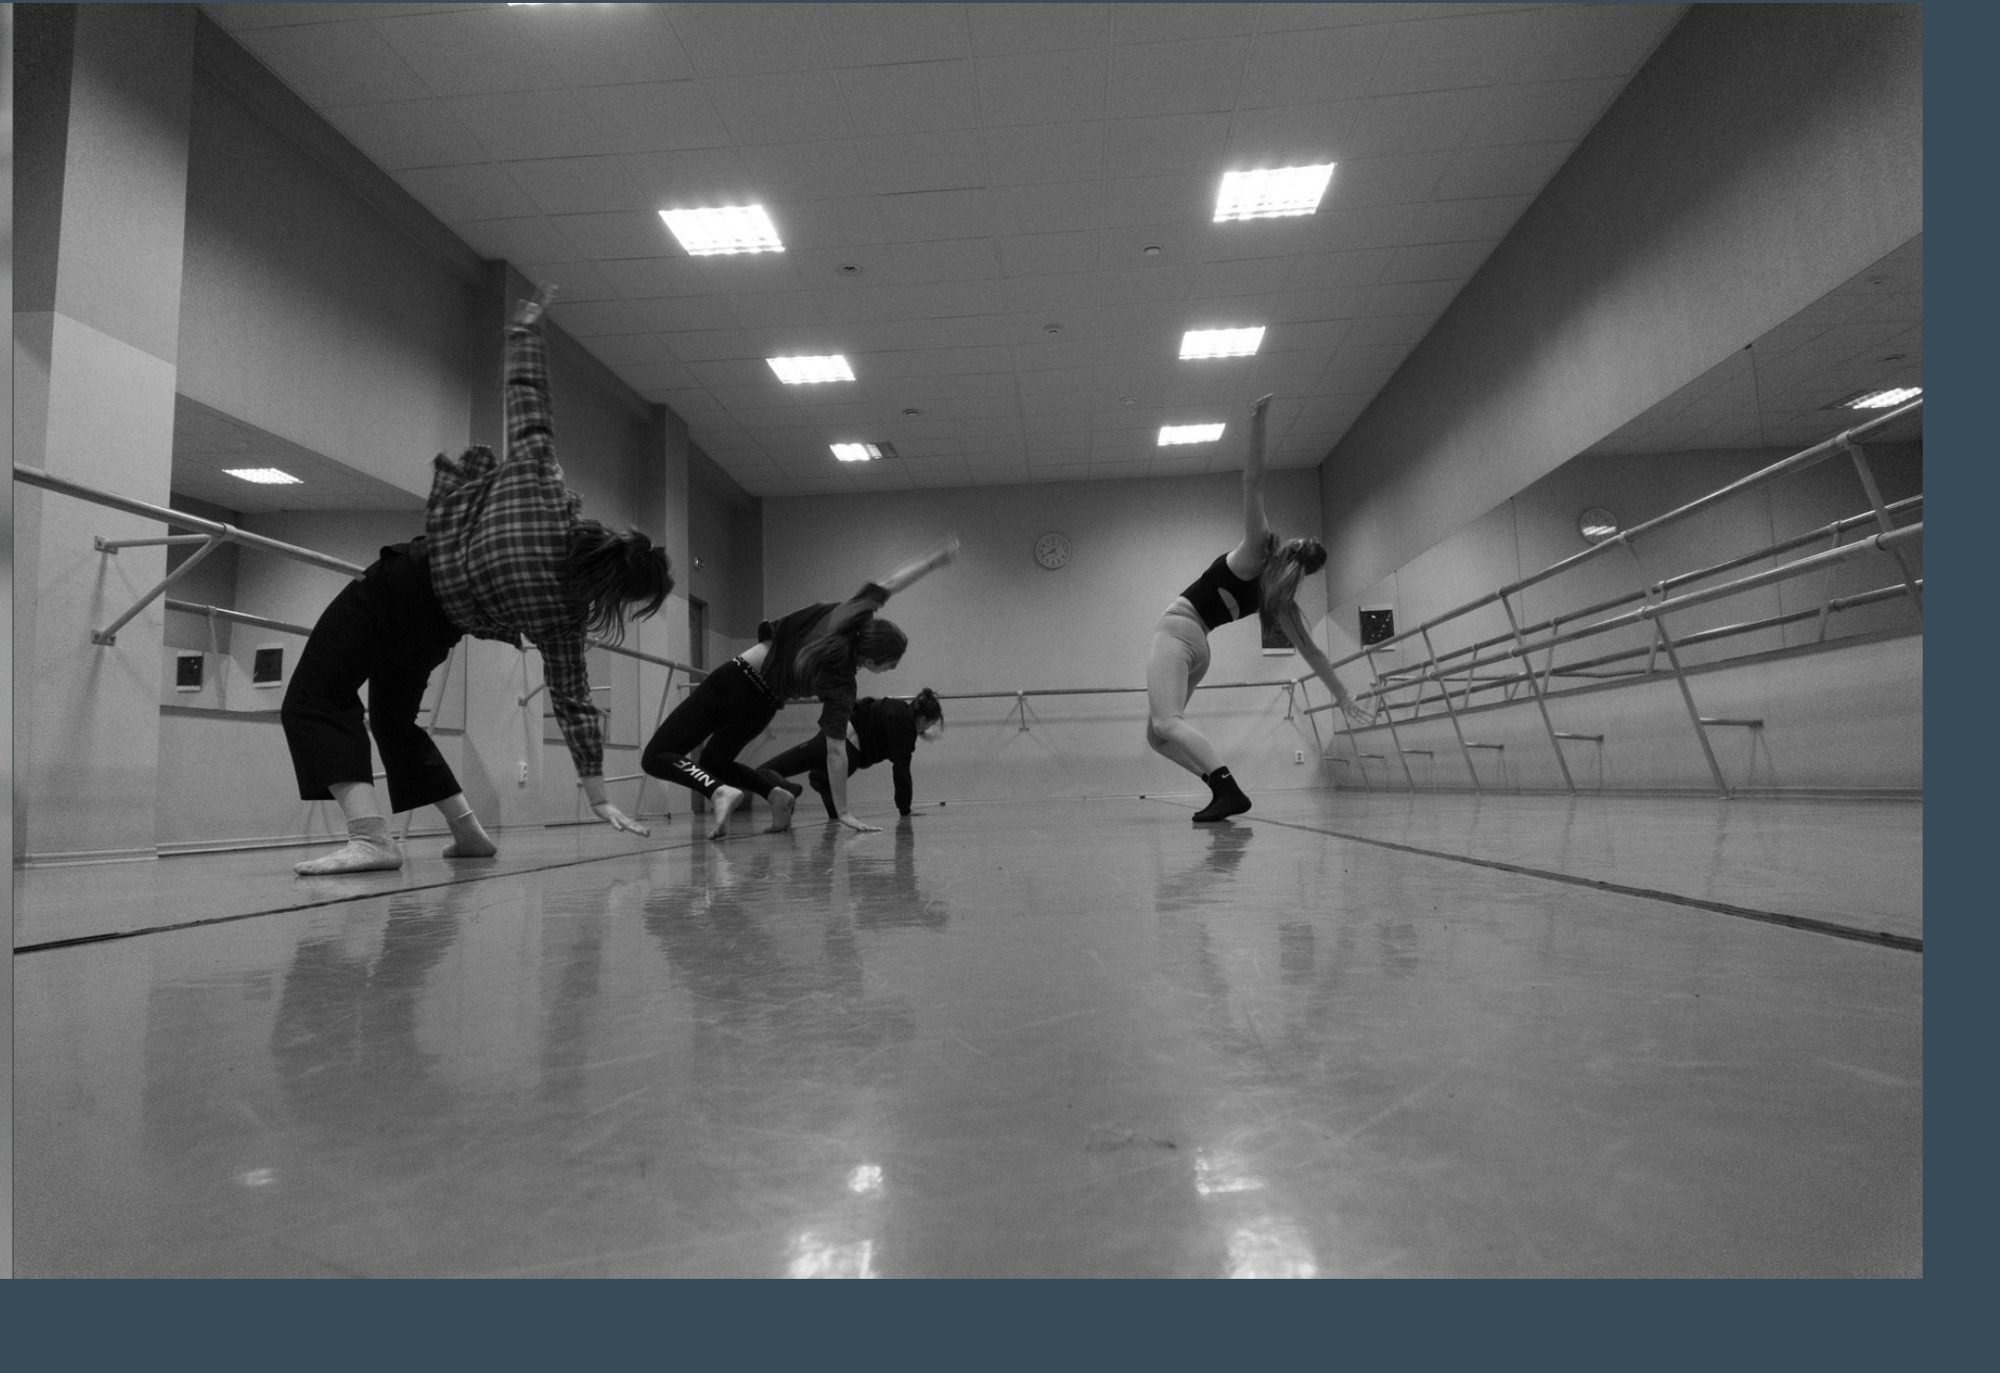
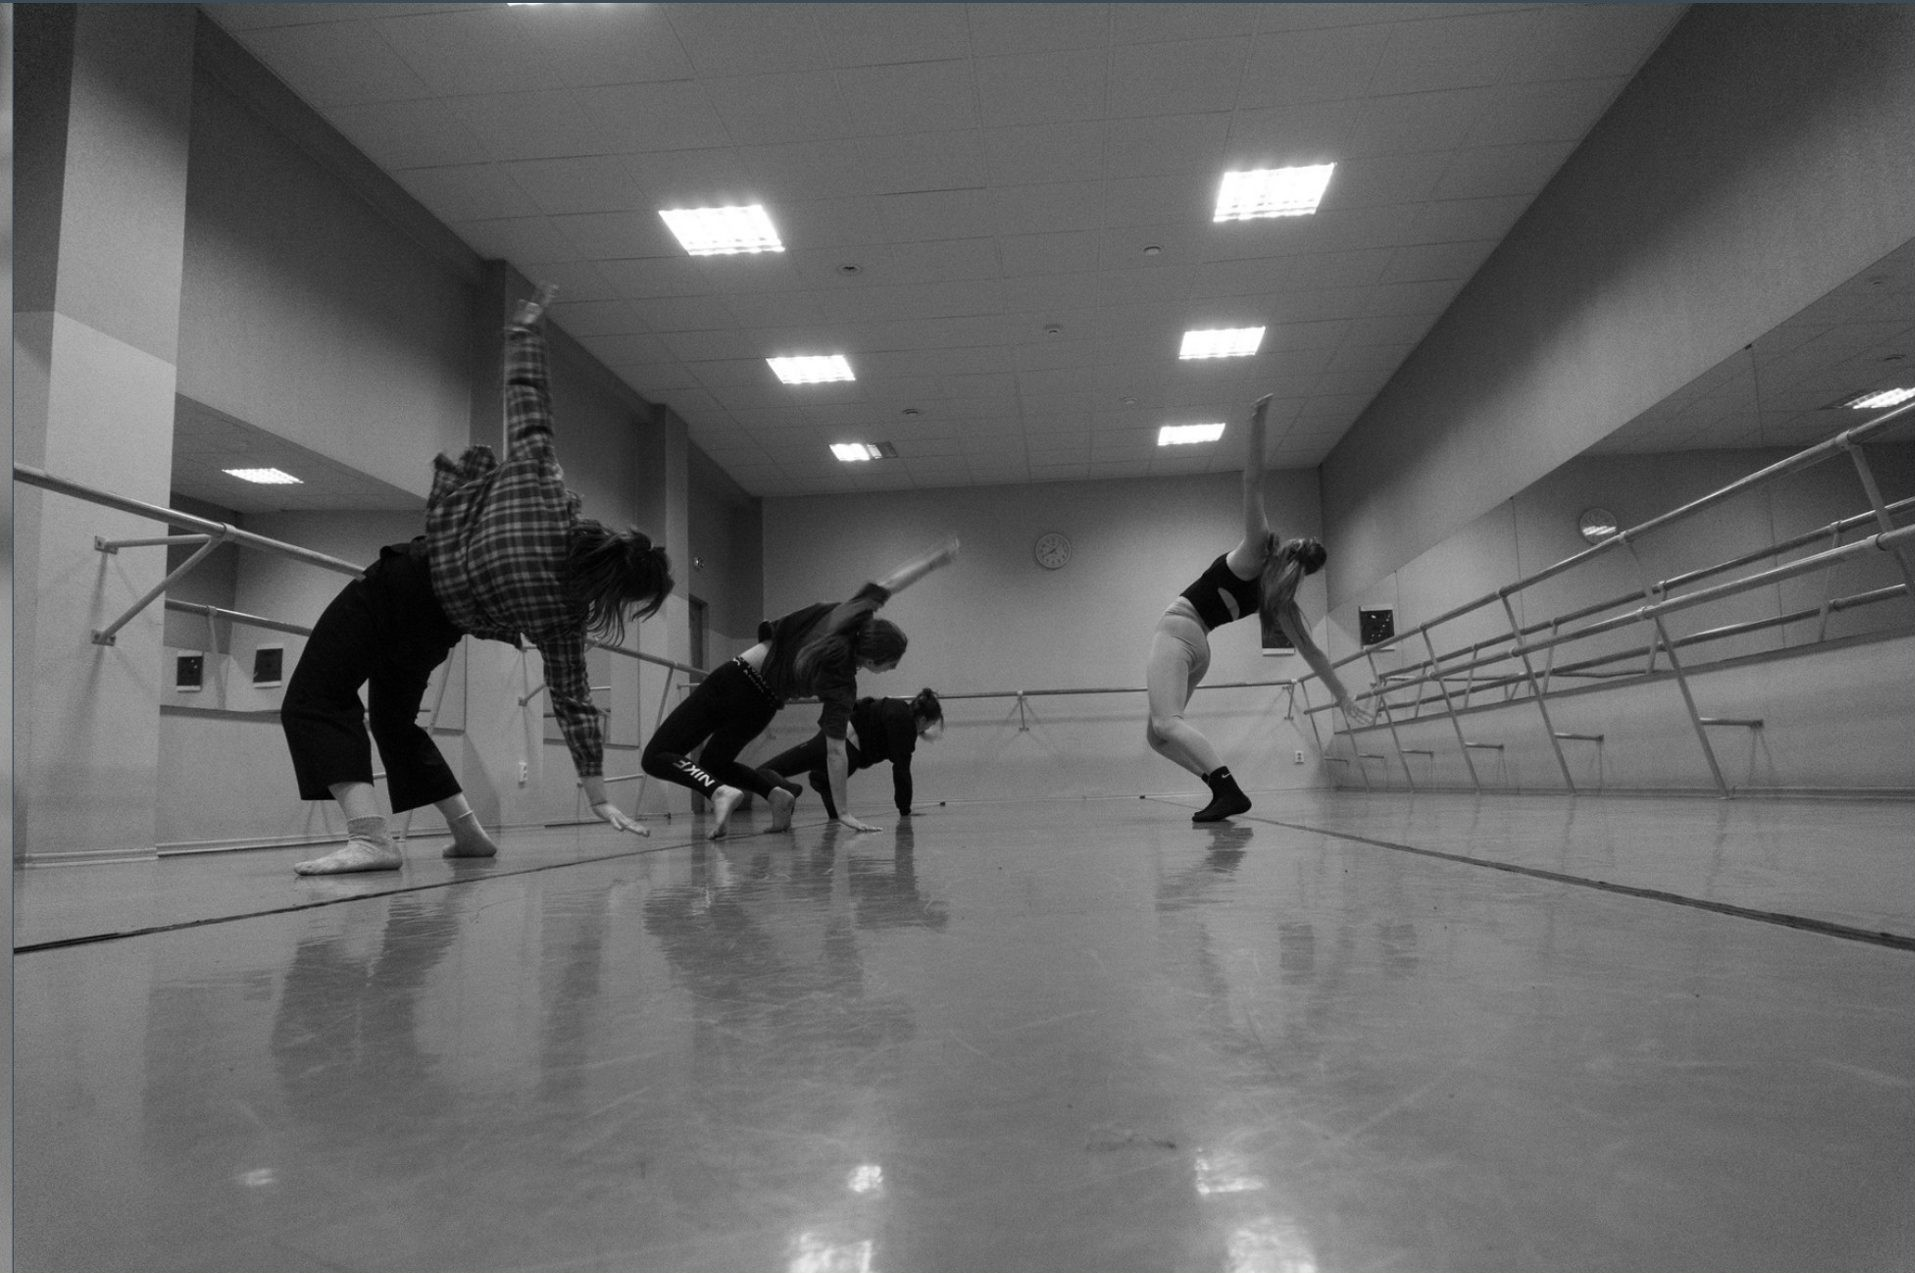
Redesign Projekti as editorial case-study blocks
Replace the accordion (category-toggle/panel/masonry-sheet) with 4
full-width magazine-style blocks, one per category - a large hero
image alternating sides with a text column (italic Fraunces index
number, title, description, and a couple of small supporting
thumbnails), alternating left/right per block for rhythm. Stacks to
a single column on mobile.

- New .case-list/.case-block/.case-media/.case-content/.case-num/
  .case-thumbs styles; removed the now-dead accordion CSS and the
  .fcap/.fnum/.ftitle hover-caption styles (no longer used anywhere)
- Removed the accordion JS module from script.js; lightbox and reveal
  scripts already work generically against any #darbi .frame
- Found and fixed the same baked-in border artifact on hero.jpg
  (78px right / 94px bottom) that we'd previously found and trimmed
  on ph_shoulder.jpg - was showing up in the new Fotogrāfija block
- Verified the whole redesign with real Puppeteer/Chrome screenshots
  (headless, scrolled through all 4 blocks) before committing, not
  just by reading the CSS

diff --git a/index.html b/index.html
@@ -152,115 +152,84 @@
         <span class="section-index">04 - Dizains &amp; vizuālā valoda</span>
       </div>
 
-      <div class="category-list reveal">
+      <div class="case-list">
 
-        <button class="category-toggle" type="button" aria-expanded="false" aria-controls="cat-ielugumi">
-          <span class="cat-heading">
+        <article class="case-block reveal">
+          <div class="case-media frame" role="button" tabindex="0" data-full="assets/images/novelejumi.jpg" data-num="Personīgs projekts" data-title="Vecmeitu ballītes kartītes">
+            <img src="assets/images/novelejumi.jpg" alt="Vecmeitu ballītes kartīte 'Novēlējumi līgavai'" loading="lazy" />
+          </div>
+          <div class="case-content">
+            <span class="case-num">01</span>
             <h3>Ielūgumi</h3>
             <p>Personalizēti ielūgumu dizaini kāzām, dzimšanas dienām un citiem svarīgiem notikumiem.</p>
-          </span>
-          <span class="cat-chevron" aria-hidden="true"></span>
-        </button>
-        <div class="category-panel" id="cat-ielugumi">
-          <div class="category-inner">
-            <div class="category-sheet">
+            <div class="case-thumbs">
               <div class="frame" role="button" tabindex="0" data-full="assets/images/kristianam.jpg" data-num="Ielūgums" data-title="Dzimšanas diena, 5.g.">
                 <img src="assets/images/kristianam.jpg" alt="Bērna dzimšanas dienas ielūgums 'Kristiānam 5'" loading="lazy" />
-                <div class="fcap"><span class="fnum">Ielūgums</span><span class="ftitle">Dzimšanas diena, 5.g.</span></div>
               </div>
               <div class="frame" role="button" tabindex="0" data-full="assets/images/ielugums.jpg" data-num="Ielūgums" data-title="Dzimšanas diena, Sāra">
                 <img src="assets/images/ielugums.jpg" alt="Ielūgums uz dzimšanas dienu, Sāra" loading="lazy" />
-                <div class="fcap"><span class="fnum">Ielūgums</span><span class="ftitle">Dzimšanas diena, Sāra</span></div>
-              </div>
-              <div class="frame" role="button" tabindex="0" data-full="assets/images/novelejumi.jpg" data-num="Personīgs projekts" data-title="Vecmeitu ballītes kartītes">
-                <img src="assets/images/novelejumi.jpg" alt="Vecmeitu ballītes kartīte 'Novēlējumi līgavai'" loading="lazy" />
-                <div class="fcap"><span class="fnum">Personīgs projekts</span><span class="ftitle">Vecmeitu ballītes kartītes</span></div>
               </div>
             </div>
           </div>
-        </div>
+        </article>
 
-        <button class="category-toggle" type="button" aria-expanded="false" aria-controls="cat-plakati">
-          <span class="cat-heading">
+        <article class="case-block reveal">
+          <div class="case-media frame" role="button" tabindex="0" data-full="assets/images/pink_poster.jpg" data-num="Pasākuma plakāts" data-title="Atplauksti sievišķībā">
+            <img src="assets/images/pink_poster.jpg" alt="Pasākuma plakāts 'Atplauksti sievišķībā'" loading="lazy" />
+          </div>
+          <div class="case-content">
+            <span class="case-num">02</span>
             <h3>Plakāti</h3>
             <p>Pasākumu un kampaņu plakāti, kas piesaista uzmanību un nes vēstījumu tālāk.</p>
-          </span>
-          <span class="cat-chevron" aria-hidden="true"></span>
-        </button>
-        <div class="category-panel" id="cat-plakati">
-          <div class="category-inner">
-            <div class="category-sheet">
-              <div class="frame" role="button" tabindex="0" data-full="assets/images/pink_poster.jpg" data-num="Pasākuma plakāts" data-title="Atplauksti sievišķībā">
-                <img src="assets/images/pink_poster.jpg" alt="Pasākuma plakāts 'Atplauksti sievišķībā'" loading="lazy" />
-                <div class="fcap"><span class="fnum">Pasākuma plakāts</span><span class="ftitle">Atplauksti sievišķībā</span></div>
-              </div>
-            </div>
           </div>
-        </div>
+        </article>
 
-        <button class="category-toggle" type="button" aria-expanded="false" aria-controls="cat-soctikli">
-          <span class="cat-heading">
+        <article class="case-block reveal">
+          <div class="case-media frame" role="button" tabindex="0" data-full="assets/images/ieelpot.jpg" data-num="Klients - NVD" data-title="Lieldienu apsveikums">
+            <img src="assets/images/ieelpot.jpg" alt="Lieldienu apsveikums ar NVD direktora vēstījumu" loading="lazy" />
+          </div>
+          <div class="case-content">
+            <span class="case-num">03</span>
             <h3>Sociālo tīklu vizuāļi</h3>
             <p>Vizuāļi un veidnes sociālajiem tīkliem, kas strādā gan zīmolam, gan auditorijai.</p>
-          </span>
-          <span class="cat-chevron" aria-hidden="true"></span>
-        </button>
-        <div class="category-panel" id="cat-soctikli">
-          <div class="category-inner">
-            <div class="category-sheet">
-              <div class="frame" role="button" tabindex="0" data-full="assets/images/ieelpot.jpg" data-num="Klients - NVD" data-title="Lieldienu apsveikums">
-                <img src="assets/images/ieelpot.jpg" alt="Lieldienu apsveikums ar NVD direktora vēstījumu" loading="lazy" />
-                <div class="fcap"><span class="fnum">Klients - NVD</span><span class="ftitle">Lieldienu apsveikums</span></div>
-              </div>
+            <div class="case-thumbs">
               <div class="frame" role="button" tabindex="0" data-full="assets/images/lieldienas.jpg" data-num="Klients - NVD" data-title="Soc. tīklu vizuālis">
                 <img src="assets/images/lieldienas.jpg" alt="Lieldienu vizuālis sociālajiem tīkliem" loading="lazy" />
-                <div class="fcap"><span class="fnum">Klients - NVD</span><span class="ftitle">Soc. tīklu vizuālis</span></div>
               </div>
               <div class="frame" role="button" tabindex="0" data-full="assets/images/uzmanibu.jpg" data-num="Klients - NVD" data-title="Informatīvs paziņojums">
                 <img src="assets/images/uzmanibu.jpg" alt="Informatīvs paziņojums sociālajiem tīkliem" loading="lazy" />
-                <div class="fcap"><span class="fnum">Klients - NVD</span><span class="ftitle">Informatīvs paziņojums</span></div>
               </div>
             </div>
           </div>
-        </div>
+        </article>
 
-        <button class="category-toggle" type="button" aria-expanded="false" aria-controls="cat-fotografija">
-          <span class="cat-heading">
+        <article class="case-block reveal">
+          <div class="case-media frame" role="button" tabindex="0" data-full="assets/images/hero.jpg" data-num="Nr. 01" data-title="Lēciens, deju studija">
+            <img src="assets/images/hero.jpg" alt="Dejotājas studijā lēkuma mirklī" loading="lazy" />
+          </div>
+          <div class="case-content">
+            <span class="case-num">04</span>
             <h3>Fotogrāfija</h3>
             <p>Mirkļi, detaļas un perspektīvas, kas piesaista uzmanību.</p>
-          </span>
-          <span class="cat-chevron" aria-hidden="true"></span>
-        </button>
-        <div class="category-panel" id="cat-fotografija">
-          <div class="category-inner">
-            <div class="category-sheet">
-              <div class="frame" role="button" tabindex="0" data-full="assets/images/hero.jpg" data-num="Nr. 01" data-title="Lēciens, deju studija">
-                <img src="assets/images/hero.jpg" alt="Dejotājas studijā lēkuma mirklī" loading="lazy" />
-                <div class="fcap"><span class="fnum">Nr. 01</span><span class="ftitle">Lēciens, deju studija</span></div>
-              </div>
+            <div class="case-thumbs">
               <div class="frame" role="button" tabindex="0" data-full="assets/images/ph_arm.jpg" data-num="Nr. 02" data-title="Elkonis, studija">
                 <img src="assets/images/ph_arm.jpg" alt="Roku un elkoņa tuvplāns" loading="lazy" />
-                <div class="fcap"><span class="fnum">Nr. 02</span><span class="ftitle">Elkonis, studija</span></div>
               </div>
               <div class="frame" role="button" tabindex="0" data-full="assets/images/ph_group.jpg" data-num="Nr. 03" data-title="Pie stieņa">
                 <img src="assets/images/ph_group.jpg" alt="Dejotājas pie stieņa ar paceltām rokām" loading="lazy" />
-                <div class="fcap"><span class="fnum">Nr. 03</span><span class="ftitle">Pie stieņa</span></div>
               </div>
               <div class="frame" role="button" tabindex="0" data-full="assets/images/ph_shoulder.jpg" data-num="Nr. 04" data-title="Plecs, studija">
                 <img src="assets/images/ph_shoulder.jpg" alt="Kakla un pleca līnija, tuvplāns" loading="lazy" />
-                <div class="fcap"><span class="fnum">Nr. 04</span><span class="ftitle">Plecs, studija</span></div>
               </div>
               <div class="frame" role="button" tabindex="0" data-full="assets/images/ph_legs.jpg" data-num="Nr. 05" data-title="Solis, kustība">
                 <img src="assets/images/ph_legs.jpg" alt="Izplūdušas kājas kustībā" loading="lazy" />
-                <div class="fcap"><span class="fnum">Nr. 05</span><span class="ftitle">Solis, kustība</span></div>
               </div>
               <div class="frame" role="button" tabindex="0" data-full="assets/images/ph_street.jpg" data-num="Nr. 06" data-title="Amsterdama, iela">
                 <img src="assets/images/ph_street.jpg" alt="Amsterdamas iela, melnbalts kadrs" loading="lazy" />
-                <div class="fcap"><span class="fnum">Nr. 06</span><span class="ftitle">Amsterdama, iela</span></div>
               </div>
             </div>
           </div>
-        </div>
+        </article>
 
       </div>
     </div>

diff --git a/styles.css b/styles.css
@@ -329,43 +329,33 @@ section.tight{ padding-top:clamp(40px,6vw,72px); }
 }
 .note p{ margin:0; color:var(--paper-dim); font-size:0.92rem; }
 
-/* ---------- SERVICE CATEGORIES (accordion) ---------- */
-.category-list{ display:flex; flex-direction:column; border-bottom:1px solid var(--line); }
-.category-toggle{
-  display:flex; align-items:center; gap:clamp(16px,3vw,32px);
-  width:100%; border:none; border-top:1px solid var(--line);
-  background:transparent; color:inherit; text-align:left;
-  font-family:inherit;
-  padding:clamp(20px,3vw,28px) 0; cursor:pointer;
+/* ---------- PROJEKTI - editorial case-study blocks ---------- */
+.case-list{ display:flex; flex-direction:column; border-bottom:1px solid var(--line); }
+.case-block{
+  display:grid;
+  grid-template-columns: 1.15fr 1fr;
+  gap:clamp(32px,5vw,72px);
+  align-items:start;
+  padding:clamp(48px,7vw,80px) 0;
+  border-top:1px solid var(--line);
 }
-.category-list > .category-toggle:first-child{ border-top:none; padding-top:0; }
-.cat-heading{ flex:1 1 auto; }
-.cat-heading h3{ font-size:clamp(1.1rem,2vw,1.4rem); font-weight:500; margin-bottom:6px; transition:color .25s ease; }
-.cat-heading p{ margin:0; color:var(--paper-dim); font-size:0.92rem; max-width:52ch; }
-.category-toggle:hover .cat-heading h3,
-.category-toggle:focus-visible .cat-heading h3{ color:var(--accent-soft); }
-.category-toggle:focus-visible{ outline:none; }
-.category-toggle:focus-visible .cat-heading h3{ text-decoration:underline; text-underline-offset:4px; }
-.cat-chevron{
-  flex:0 0 auto; width:11px; height:11px;
-  border-right:1.5px solid var(--paper-dim); border-bottom:1.5px solid var(--paper-dim);
-  transform:rotate(45deg); transition:transform 1.2s cubic-bezier(.16,1,.3,1);
+.case-list > .case-block:first-child{ border-top:none; padding-top:0; }
+.case-block:nth-child(even){ grid-template-columns: 1fr 1.15fr; }
+.case-block:nth-child(even) .case-media{ order:2; }
+.case-block:nth-child(even) .case-content{ order:1; }
+@media (max-width:760px){
+  .case-block, .case-block:nth-child(even){ grid-template-columns:1fr; }
+  .case-block .case-media, .case-block .case-content{ order:0; }
 }
-.category-toggle[aria-expanded="true"] .cat-chevron{ transform:rotate(-135deg); }
-
-.category-panel{
-  display:grid; grid-template-rows:0fr;
-  transition:grid-template-rows 1.8s cubic-bezier(.16,1,.3,1);
+.case-num{
+  display:block; font-family:'Fraunces', serif; font-style:italic;
+  color:var(--paper-faint); font-size:1.6rem; margin-bottom:10px;
 }
-.category-panel.open{ grid-template-rows:1fr; }
-.category-inner{ overflow:hidden; }
-/* ---------- GALLERY (masonry, preserves each image's own aspect ratio) ---------- */
-.category-sheet{
-  columns:3 260px;
-  column-gap:14px;
-  padding:clamp(20px,3vw,28px) 0 clamp(28px,4vw,36px);
-}
-@media (max-width:640px){ .category-sheet{ columns:1 220px; } }
+.case-content h3{ font-size:clamp(1.6rem,3vw,2.3rem); margin-bottom:14px; }
+.case-content p{ color:var(--paper-dim); font-size:1rem; max-width:46ch; margin:0 0 clamp(22px,3vw,30px); }
+.case-thumbs{ display:flex; flex-wrap:wrap; gap:8px; }
+.case-thumbs .frame{ width:92px; height:92px; flex:0 0 auto; margin-bottom:0; }
+.case-thumbs .frame img{ width:100%; height:100%; object-fit:cover; }
 
 .frame{
   position:relative;
@@ -373,24 +363,10 @@ section.tight{ padding-top:clamp(40px,6vw,72px); }
   overflow:hidden;
   background:var(--ink-raised);
   cursor:default;
-  break-inside:avoid;
-  margin-bottom:14px;
   box-shadow:var(--shadow);
 }
 #darbi .frame{ cursor:pointer; }
 #darbi .frame:focus-visible{ outline:2px solid var(--accent-soft); outline-offset:-2px; }
-.category-sheet .frame{
-  opacity:0; transform:translateY(22px) scale(0.98);
-  transition:opacity 1.3s cubic-bezier(.16,1,.3,1), transform 1.3s cubic-bezier(.16,1,.3,1);
-  transition-delay:.25s;
-}
-.category-panel.open .category-sheet .frame{ opacity:1; transform:translateY(0) scale(1); }
-.category-sheet .frame:nth-child(1){ transition-delay:.25s; }
-.category-sheet .frame:nth-child(2){ transition-delay:.45s; }
-.category-sheet .frame:nth-child(3){ transition-delay:.65s; }
-.category-sheet .frame:nth-child(4){ transition-delay:.85s; }
-.category-sheet .frame:nth-child(5){ transition-delay:1.05s; }
-.category-sheet .frame:nth-child(6){ transition-delay:1.25s; }
 
 .frame img{ width:100%; height:auto; display:block; transition:transform .7s cubic-bezier(.2,.7,.2,1), filter .7s ease; }
 .frame:hover img{ transform:scale(1.03); }
@@ -402,16 +378,6 @@ section.tight{ padding-top:clamp(40px,6vw,72px); }
   opacity:0; transition:opacity .35s ease;
 }
 .frame:hover::after{ opacity:1; }
-.frame .fcap{
-  position:absolute; left:0; right:0; bottom:0; padding:12px 14px;
-  transform:translateY(8px); opacity:0; transition:all .35s ease;
-  z-index:2;
-}
-.frame:hover .fcap{ transform:translateY(0); opacity:1; }
-.fcap .fnum{ font-family:'JetBrains Mono', monospace; font-size:0.62rem; color:var(--accent-soft); letter-spacing:0.1em; text-transform:uppercase; display:block; margin-bottom:3px; }
-.fcap .ftitle{ font-family:'Work Sans'; font-size:0.85rem; color:var(--paper); font-weight:500; }
-
-.gallery-note{ margin-top:18px; color:var(--paper-faint); font-size:0.85rem; max-width:60ch; }
 
 /* ---------- FOOTER / CONTACT ---------- */
 footer{

diff --git a/script.js b/script.js
@@ -98,56 +98,3 @@
     if (e.key === 'Escape' && lightbox.classList.contains('open')) close();
   });
 })();
-
-// Scrollytelling accordion for the "Projekti" categories (Ielūgumi,
-// Plakāti, Sociālo tīklu vizuāļi) — exclusive: as a category's toggle
-// crosses the vertical center of the viewport it becomes the active
-// one, opening slowly while whichever was open before closes. Click
-// still works as a manual override.
-(function () {
-  var toggles = document.querySelectorAll('.category-toggle');
-  if (!toggles.length) return;
-
-  function setOpen(toggle, panel, open) {
-    toggle.setAttribute('aria-expanded', String(open));
-    panel.classList.toggle('open', open);
-  }
-
-  var pairs = [];
-  toggles.forEach(function (toggle) {
-    var panel = document.getElementById(toggle.getAttribute('aria-controls'));
-    if (!panel) return;
-    pairs.push({ toggle: toggle, panel: panel });
-  });
-
-  function activate(activePair) {
-    pairs.forEach(function (p) { setOpen(p.toggle, p.panel, p === activePair); });
-  }
-
-  pairs.forEach(function (p) {
-    p.toggle.addEventListener('click', function () {
-      var isOpen = p.toggle.getAttribute('aria-expanded') === 'true';
-      activate(isOpen ? null : p);
-    });
-  });
-
-  if (!('IntersectionObserver' in window)) {
-    activate(pairs[0]);
-    return;
-  }
-
-  // A thin band across the vertical middle of the viewport — whichever
-  // toggle crosses into it becomes the active category.
-  var io = new IntersectionObserver(
-    function (entries) {
-      entries.forEach(function (entry) {
-        if (!entry.isIntersecting) return;
-        var pair = pairs.filter(function (p) { return p.toggle === entry.target; })[0];
-        if (pair) activate(pair);
-      });
-    },
-    { threshold: 0, rootMargin: '-45% 0px -45% 0px' }
-  );
-
-  pairs.forEach(function (p) { io.observe(p.toggle); });
-})();
